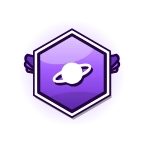
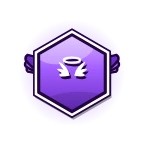
Cards: richer Platinum (art-deco medallion) and Legend (wings and halo)
- Platinum: art-deco fan rising from the bottom, a large engraved
  platinum medallion with a turning reflection behind the character, and
  falling platinum coins with glints.
- Legend: large purple feathered wings spread behind the character with a
  gold halo, turning light rays and rising sparkles; the emblem glyph is
  now a winged halo.
- Guide emblem image and update notes updated.

Claude-Session: https://claude.ai/code/session_0164eB5PaZJ6XHbAKazwPAse

Changed region(s): [[0.3611, 0.3889, 0.6667, 0.6111]]

diff --git a/index.html b/index.html
@@ -11831,7 +11831,7 @@ var TIER_BG=[
   {c:['#56606D','#23282F','#07080A'],glow:'#D3DCE8',acc:'#DCE2EA',pat:'rivets', par:'sparks',  flat:'pop2',pop:1,    em:'gear'},      // アイアン：鉄の歯車・火花
   {c:['#B07A14','#452C06','#0B0602'],glow:'#FFD65C',acc:'#FFF1B8',pat:'sheriff',par:'coins',   flat:'pop3',pop:1,  em:'sheriff'},   // ゴールド：金の保安官の星
   {c:['#C4D3DF','#5A6B7C','#0E151E'],glow:'#E8F4FF',acc:'#FFFFFF',pat:'snow',   par:'motes',   flat:'pop4',pop:1, em:'ingot'},   // プラチナ：白銀の結晶
-  {c:['#6E2FA6','#2A1044','#07030E'],glow:'#DCAEFF',acc:'#F4E4FF',pat:'suits',  par:'shards',  flat:'pop5',pop:1,   em:'planet'},    // レジェンド：紫の宇宙・輪のある惑星
+  {c:['#6E2FA6','#2A1044','#07030E'],glow:'#DCAEFF',acc:'#F4E4FF',pat:'suits',  par:'shards',  flat:'pop5',pop:1,   em:'wing'},    // レジェンド：紫の宇宙・輪のある惑星
   {c:['#A3172D','#3F0812','#0A0103'],glow:'#FF7182',acc:'#FFD6DC',pat:'roses',  par:'petals',  flat:'pop6',pop:1,   em:'reticle'},    // マスター：深紅の炎
   {c:['#178A3E','#08391A','#010A04'],glow:'#7CF29A',acc:'#DFFFE6',pat:'flames', par:'embers',  flat:'pop7',pop:1,em:'bolt'},      // チャンピオン：緑の稲妻
   {c:['#2A2216','#0E0B08','#030202'],glow:'#FFD98A',acc:'#FFF1C8',pat:'deco',   par:'golddust',flat:'pop8',pop:1,  em:'eclipse'}    // エクリプス：黒い太陽と金のコロナ
@@ -12813,44 +12813,65 @@ function popBg3(g,w,h,tm,lw){
   spikes(['#FFD23F','#FFE68C'],0,.58,37);
   popStars(g,w,h,tm,8,['#FFF7CF','#FFD23F'],7,.6);
 }
-// プラチナ：磨いた白金のプレートが斜めに重なり、光の反射が走る。下の左右に積んだ延べ棒
-function popIngot(g,cx,cy,s,ink,L){
-  var tp=[[cx-s*.32,cy-s*.2],[cx+s*.32,cy-s*.2],[cx+s*.5,cy+s*.2],[cx-s*.5,cy+s*.2]];
-  var gr=g.createLinearGradient(0,cy-s*.2,0,cy+s*.2);gr.addColorStop(0,'#FFFFFF');gr.addColorStop(.45,'#D3DEE8');gr.addColorStop(1,'#8C9DB0');
-  popPoly(g,tp,gr,ink,L);popPoly(g,[[cx-s*.32,cy-s*.2],[cx+s*.32,cy-s*.2],[cx+s*.26,cy-s*.08],[cx-s*.26,cy-s*.08]],'rgba(255,255,255,.75)',null);
+// プラチナ：アールデコ調の高級感。下から広がる白金の扇、キャラの後ろに彫りの入った大きな白金のメダル（光が回る）、舞い落ちる白金のコイン
+function popCoin(g,cx,cy,r,spin,ink,L){   // 回る白金のコイン（横から見ると細くなる）
+  var sx=Math.max(.12,Math.abs(Math.cos(spin)));g.save();g.translate(cx,cy);g.scale(sx,1);
+  g.beginPath();g.arc(0,0,r,0,Math.PI*2);var cg=g.createLinearGradient(-r,-r,r,r);cg.addColorStop(0,'#FFFFFF');cg.addColorStop(.5,'#C4D3DF');cg.addColorStop(1,'#7B8EA2');g.fillStyle=cg;g.fill();g.lineWidth=L/sx*.7;g.strokeStyle=ink;g.stroke();
+  g.beginPath();g.arc(0,0,r*.66,0,Math.PI*2);g.lineWidth=L/sx*.45;g.strokeStyle='rgba(20,30,42,.45)';g.stroke();
+  flatStar4(g,0,0,r*.42);g.fillStyle='#FFFFFF';g.fill();g.restore();
 }
 function popBg4(g,w,h,tm,lw){
-  var C=POP[4],L=lw*1.8,i;g.fillStyle=popGrad(g,h,'#3A4A5C','#0D141D');g.fillRect(0,0,w,h);
-  popDots(g,w,h,'rgba(200,240,255,.05)',w*.05);
-  // 斜めに重なる白金のプレート（ふちは太線、面は磨いた金属のグラデーション）
-  [[-.3,.05,.62,'#A7B7C7'],[.25,-.05,.5,'#C4D3DF'],[.55,.32,.55,'#B3C3D2'],[-.25,.55,.5,'#93A5B8']].forEach(function(q,j){
-    g.save();g.translate(w*(q[0]+q[2]/2),h*(q[1]+.25));g.rotate(-.5);var pw=w*q[2],ph=h*.17;
-    var mg=g.createLinearGradient(0,-ph/2,0,ph/2);mg.addColorStop(0,'#FFFFFF');mg.addColorStop(.35,q[3]);mg.addColorStop(.7,'#6C7E92');mg.addColorStop(1,'#B9C8D6');
-    rrPath(g,-pw/2,-ph/2,pw,ph,ph*.18);g.fillStyle=mg;g.fill();g.lineWidth=L;g.strokeStyle=C.k;g.stroke();
-    [-pw/2+ph*.3,pw/2-ph*.3].forEach(function(rx){g.beginPath();g.arc(rx,0,ph*.09,0,Math.PI*2);g.fillStyle='#E9F2F8';g.fill();g.lineWidth=L*.6;g.stroke();});   // ねじ
-    var sp=((tm*.3+j*.27)%1.4)/1.4;   // 面を走る光
-    if(sp<.6){g.save();rrPath(g,-pw/2,-ph/2,pw,ph,ph*.18);g.clip();var sx=-pw*.7+sp/.6*pw*1.4,sg=g.createLinearGradient(sx-ph,0,sx+ph,0);sg.addColorStop(0,'rgba(255,255,255,0)');sg.addColorStop(.5,'rgba(255,255,255,.85)');sg.addColorStop(1,'rgba(255,255,255,0)');g.fillStyle=sg;g.fillRect(-pw,-ph,pw*2,ph*2);g.restore();}
-    g.restore();});
-  // 積んだ延べ棒（左下・右下）
-  var s=w*.2;
-  [[.13,.9],[.33,.9],[.23,.8],[.78,.92],[.98,.92],[.88,.82]].forEach(function(q){popIngot(g,w*q[0],h*q[1],s,C.k,L);});
-  // きらめき（白と、すこし水色）
-  [[.18,.72],[.86,.7],[.62,.18],[.08,.2],[.92,.38]].forEach(function(q,j){var tw=Math.max(0,Math.sin(tm*1.9+j*1.7));g.fillStyle=j%2?'#C8F7FF':'#FFFFFF';flatStar4(g,w*q[0],h*q[1],w*.05*tw);g.fill();});
+  var C=POP[4],L=lw*1.8,i,cx=w*.47,cy=h*.35;
+  g.fillStyle=popGrad(g,h,'#334457','#0B1219');g.fillRect(0,0,w,h);
+  // 下から広がる扇（白金と影の色を交互に）。細い水色の線
+  g.save();g.translate(w*.5,h*1.05);
+  for(i=0;i<14;i++){var a0=-Math.PI+i*Math.PI/14,a1=a0+Math.PI/14;g.beginPath();g.moveTo(0,0);g.arc(0,0,h*1.25,a0,a1);g.closePath();g.fillStyle=i%2?'#2A3A4C':'#3E5266';g.fill();}
+  for(i=1;i<14;i++){var aa=-Math.PI+i*Math.PI/14;g.beginPath();g.moveTo(0,0);g.lineTo(Math.cos(aa)*h*1.25,Math.sin(aa)*h*1.25);g.lineWidth=Math.max(1,lw*.8);g.strokeStyle='rgba(160,240,255,.28)';g.stroke();}
+  [.42,.62,.82].forEach(function(k){g.beginPath();g.arc(0,0,h*k,-Math.PI,0);g.lineWidth=Math.max(1,lw*.9);g.strokeStyle='rgba(220,235,245,.22)';g.stroke();});
+  g.restore();
+  // 大きな白金のメダル（ぎざぎざのふち・彫りの輪・真ん中の星）
+  var R=w*.3;
+  flatSpot(g,cx,cy,R*1.7,'rgba(220,245,255,.30)');
+  g.save();g.translate(cx,cy);
+  g.beginPath();for(i=0;i<=96;i++){var ma=i/96*Math.PI*2,mr=R*(1+.035*Math.cos(ma*32));g.lineTo(Math.cos(ma)*mr,Math.sin(ma)*mr);}g.closePath();
+  var mg=g.createLinearGradient(-R,-R,R,R);mg.addColorStop(0,'#FFFFFF');mg.addColorStop(.35,'#D2DEE8');mg.addColorStop(.7,'#8FA2B6');mg.addColorStop(1,'#CBD8E3');g.fillStyle=mg;g.fill();g.lineWidth=L;g.strokeStyle=C.k;g.stroke();
+  g.beginPath();g.arc(0,0,R*.86,0,Math.PI*2);var ig=g.createLinearGradient(0,-R,0,R);ig.addColorStop(0,'#93A7B9');ig.addColorStop(1,'#DCE6EE');g.fillStyle=ig;g.fill();g.lineWidth=L*.8;g.strokeStyle=C.k;g.stroke();
+  g.save();g.rotate(-tm*.1);for(i=0;i<36;i++){var da=i*Math.PI/18;g.beginPath();g.moveTo(Math.cos(da)*R*.74,Math.sin(da)*R*.74);g.lineTo(Math.cos(da)*R*.82,Math.sin(da)*R*.82);g.lineWidth=Math.max(1,lw*(i%3?.8:1.6));g.strokeStyle='rgba(30,44,60,.55)';g.stroke();}g.restore();
+  g.beginPath();g.arc(0,0,R*.7,0,Math.PI*2);g.lineWidth=L*.6;g.strokeStyle='rgba(30,44,60,.5)';g.stroke();
+  flatStar4(g,0,0,R*.58);var sg2=g.createLinearGradient(0,-R*.6,0,R*.6);sg2.addColorStop(0,'#FFFFFF');sg2.addColorStop(1,'#B9CBD9');g.fillStyle=sg2;g.fill();g.lineWidth=L*.8;g.strokeStyle=C.k;g.stroke();
+  g.save();g.beginPath();g.arc(0,0,R*1.04,0,Math.PI*2);g.clip();   // メダルの面を走る光
+  var sp=((tm*.28)%1.5)/1.5;if(sp<.55){var sx=-R*1.4+sp/.55*R*2.8,lg=g.createLinearGradient(sx-R*.3,-R,sx+R*.3,R);lg.addColorStop(0,'rgba(255,255,255,0)');lg.addColorStop(.5,'rgba(255,255,255,.8)');lg.addColorStop(1,'rgba(255,255,255,0)');g.fillStyle=lg;g.fillRect(-R*1.2,-R*1.2,R*2.4,R*2.4);}
+  g.restore();
+  g.restore();
+  // 舞い落ちる白金のコイン
+  for(i=0;i<7;i++){var t=(tm*.12+i/7)%1,px=w*((i*.37+.07)%1)+Math.sin(tm+i)*w*.03,py=h*(-.1+t*1.0);popCoin(g,px,py,w*(.035+.012*(i%3)),tm*2.2+i,C.k,L);}
+  // きらめき（白と水色）
+  [[.12,.18],[.86,.24],[.8,.62],[.1,.6],[.6,.08]].forEach(function(q,j){var tw=Math.max(0,Math.sin(tm*1.9+j*1.7));g.fillStyle=j%2?'#C8F7FF':'#FFFFFF';flatStar4(g,w*q[0],h*q[1],w*.055*tw);g.fill();});
 }
-// レジェンド：紫の宇宙。うずと、輪のある惑星
+// レジェンド：伝説の英雄。キャラの後ろに大きな紫の翼が広がり、頭の上に金の光の輪。回る光の筋と、のぼる光の粒
+function popWing(g,sd,cx,cy,sc,flap,C,L){
+  g.save();g.translate(cx,cy);g.scale(sd,1);g.rotate(-flap);
+  var rows=[[C.d,1,8,.3,-1.05,1.5],[C.b,.78,8,.32,-.95,1.35],[C.l,.56,7,.34,-.85,1.15],['#FFFFFF',.36,6,.36,-.7,.9]];
+  rows.forEach(function(r){for(var j=r[2]-1;j>=0;j--){var a=r[4]+j*(r[5]/(r[2]-1)),len=sc*r[1]*(1-j*.05);g.save();g.rotate(a);featherPath(g,len,len*r[3]);g.fillStyle=r[0];g.fill();g.lineJoin='round';g.lineWidth=L;g.strokeStyle=C.k;g.stroke();g.restore();}});
+  g.restore();
+}
 function popBg5(g,w,h,tm,lw){
-  var C=POP[5],L=lw*1.8;g.fillStyle=popGrad(g,h,'#4A1A8C','#170635');g.fillRect(0,0,w,h);
-  g.save();g.translate(w*.45,h*.55);g.rotate(tm*.08);
-  for(var k=0;k<3;k++){g.beginPath();for(var t=0;t<=1.001;t+=.02){var rr=w*(.08+t*.7),aa=k*Math.PI*2/3+t*Math.PI*2.2;var px=Math.cos(aa)*rr,py=Math.sin(aa)*rr*.7;if(t===0)g.moveTo(px,py);else g.lineTo(px,py);}
-    g.lineCap='round';g.lineWidth=w*.07;g.strokeStyle=C.k;g.stroke();g.lineWidth=w*.05;g.strokeStyle=k%2?'#7A3FD8':'#9B5CF2';g.stroke();}
+  var C=POP[5],L=lw*1.6,i,cx=w*.45,cy=h*.4;
+  g.fillStyle=popGrad(g,h,'#3E1478','#12052A');g.fillRect(0,0,w,h);
+  g.save();g.translate(cx,cy);g.rotate(tm*.05);
+  for(i=0;i<16;i++){var a=i*Math.PI/8;g.beginPath();g.moveTo(0,0);g.arc(0,0,h*1.3,a-.1,a+.1);g.closePath();g.fillStyle=i%2?'rgba(163,92,255,.22)':'rgba(255,212,92,.10)';g.fill();}
   g.restore();
-  g.save();g.translate(w*.8,h*.2);var pr=w*.13;
-  g.save();g.rotate(-.35);g.beginPath();g.ellipse(0,0,pr*1.8,pr*.45,0,Math.PI,Math.PI*2);g.lineWidth=w*.035;g.strokeStyle=C.k;g.stroke();g.lineWidth=w*.022;g.strokeStyle='#FFD45C';g.stroke();g.restore();
-  g.beginPath();g.arc(0,0,pr,0,Math.PI*2);g.fillStyle='#E07BFF';g.fill();g.lineWidth=L;g.strokeStyle=C.k;g.stroke();
-  g.save();g.beginPath();g.arc(0,0,pr,0,Math.PI*2);g.clip();g.fillStyle='#B04CE8';g.fillRect(-pr,pr*.15,pr*2,pr*.3);g.fillStyle='rgba(255,255,255,.35)';g.beginPath();g.arc(-pr*.35,-pr*.4,pr*.45,0,Math.PI*2);g.fill();g.restore();
-  g.save();g.rotate(-.35);g.beginPath();g.ellipse(0,0,pr*1.8,pr*.45,0,0,Math.PI);g.lineWidth=w*.035;g.strokeStyle=C.k;g.stroke();g.lineWidth=w*.022;g.strokeStyle='#FFD45C';g.stroke();g.restore();
-  g.restore();
-  popStars(g,w,h,tm,14,['#FFFFFF','#FFD45C','#D4A9FF'],9,.95);
+  flatSpot(g,cx,cy-h*.05,w*.65,'rgba(230,200,255,.45)');
+  var flap=Math.sin(tm*1.6)*.05;
+  popWing(g,-1,cx-w*.06,cy+h*.02,w*.62,flap,C,L);
+  popWing(g,1,cx+w*.06,cy+h*.02,w*.62,flap,C,L);
+  // 金の光の輪（頭のうしろ）
+  var hy=cy-h*.17+Math.sin(tm*2)*h*.006;
+  g.save();g.globalCompositeOperation='lighter';flatSpot(g,cx,hy,w*.22,'rgba(255,214,120,.35)');g.restore();
+  g.beginPath();g.ellipse(cx,hy,w*.17,h*.032,0,0,Math.PI*2);g.lineWidth=w*.032;g.strokeStyle=C.k;g.stroke();g.lineWidth=w*.02;g.strokeStyle='#FFD45C';g.stroke();
+  g.beginPath();g.ellipse(cx,hy-h*.003,w*.17,h*.032,0,Math.PI*1.1,Math.PI*1.9);g.lineWidth=w*.008;g.strokeStyle='#FFF4C8';g.stroke();
+  for(i=0;i<16;i++){var t=(tm*.22+i*.0625)%1;g.globalAlpha=Math.sin(t*Math.PI);g.fillStyle=['#FFD45C','#F3E6FF','#D4A9FF','#FFFFFF'][i%4];flatStar4(g,w*((i*.37+.05)%1),h*(.95-t*.85),w*(.011+.008*(i%2)));g.fill();}
+  g.globalAlpha=1;
 }
 // マスター：深紅と黒の集中線に、大きなスコープの照準（ゆっくり回る）。ふちには弾の穴、のぼる火の粉
 function popBg6(g,w,h,tm,lw){
